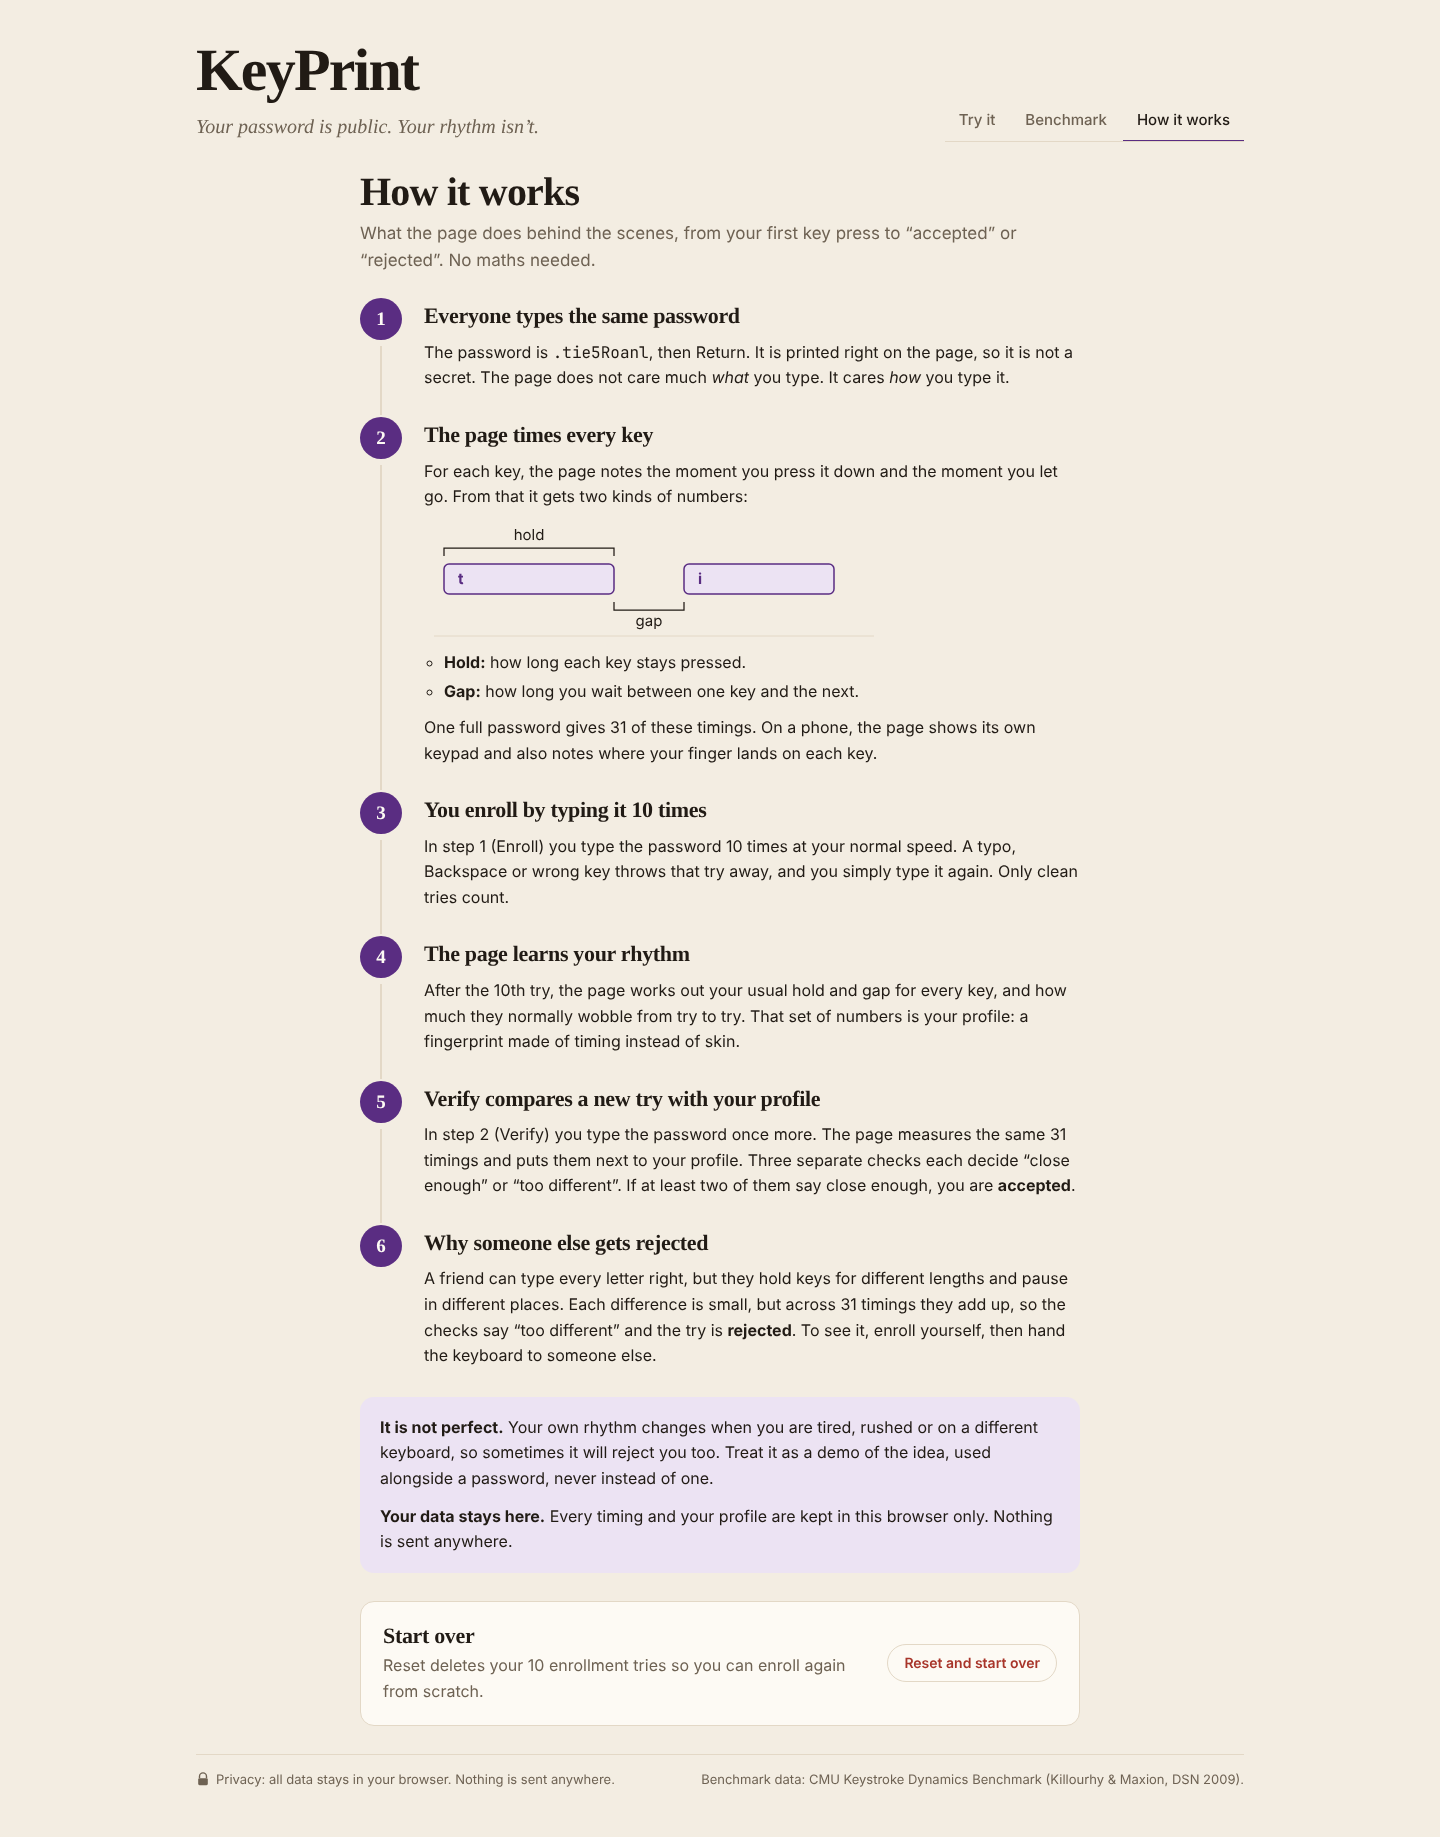
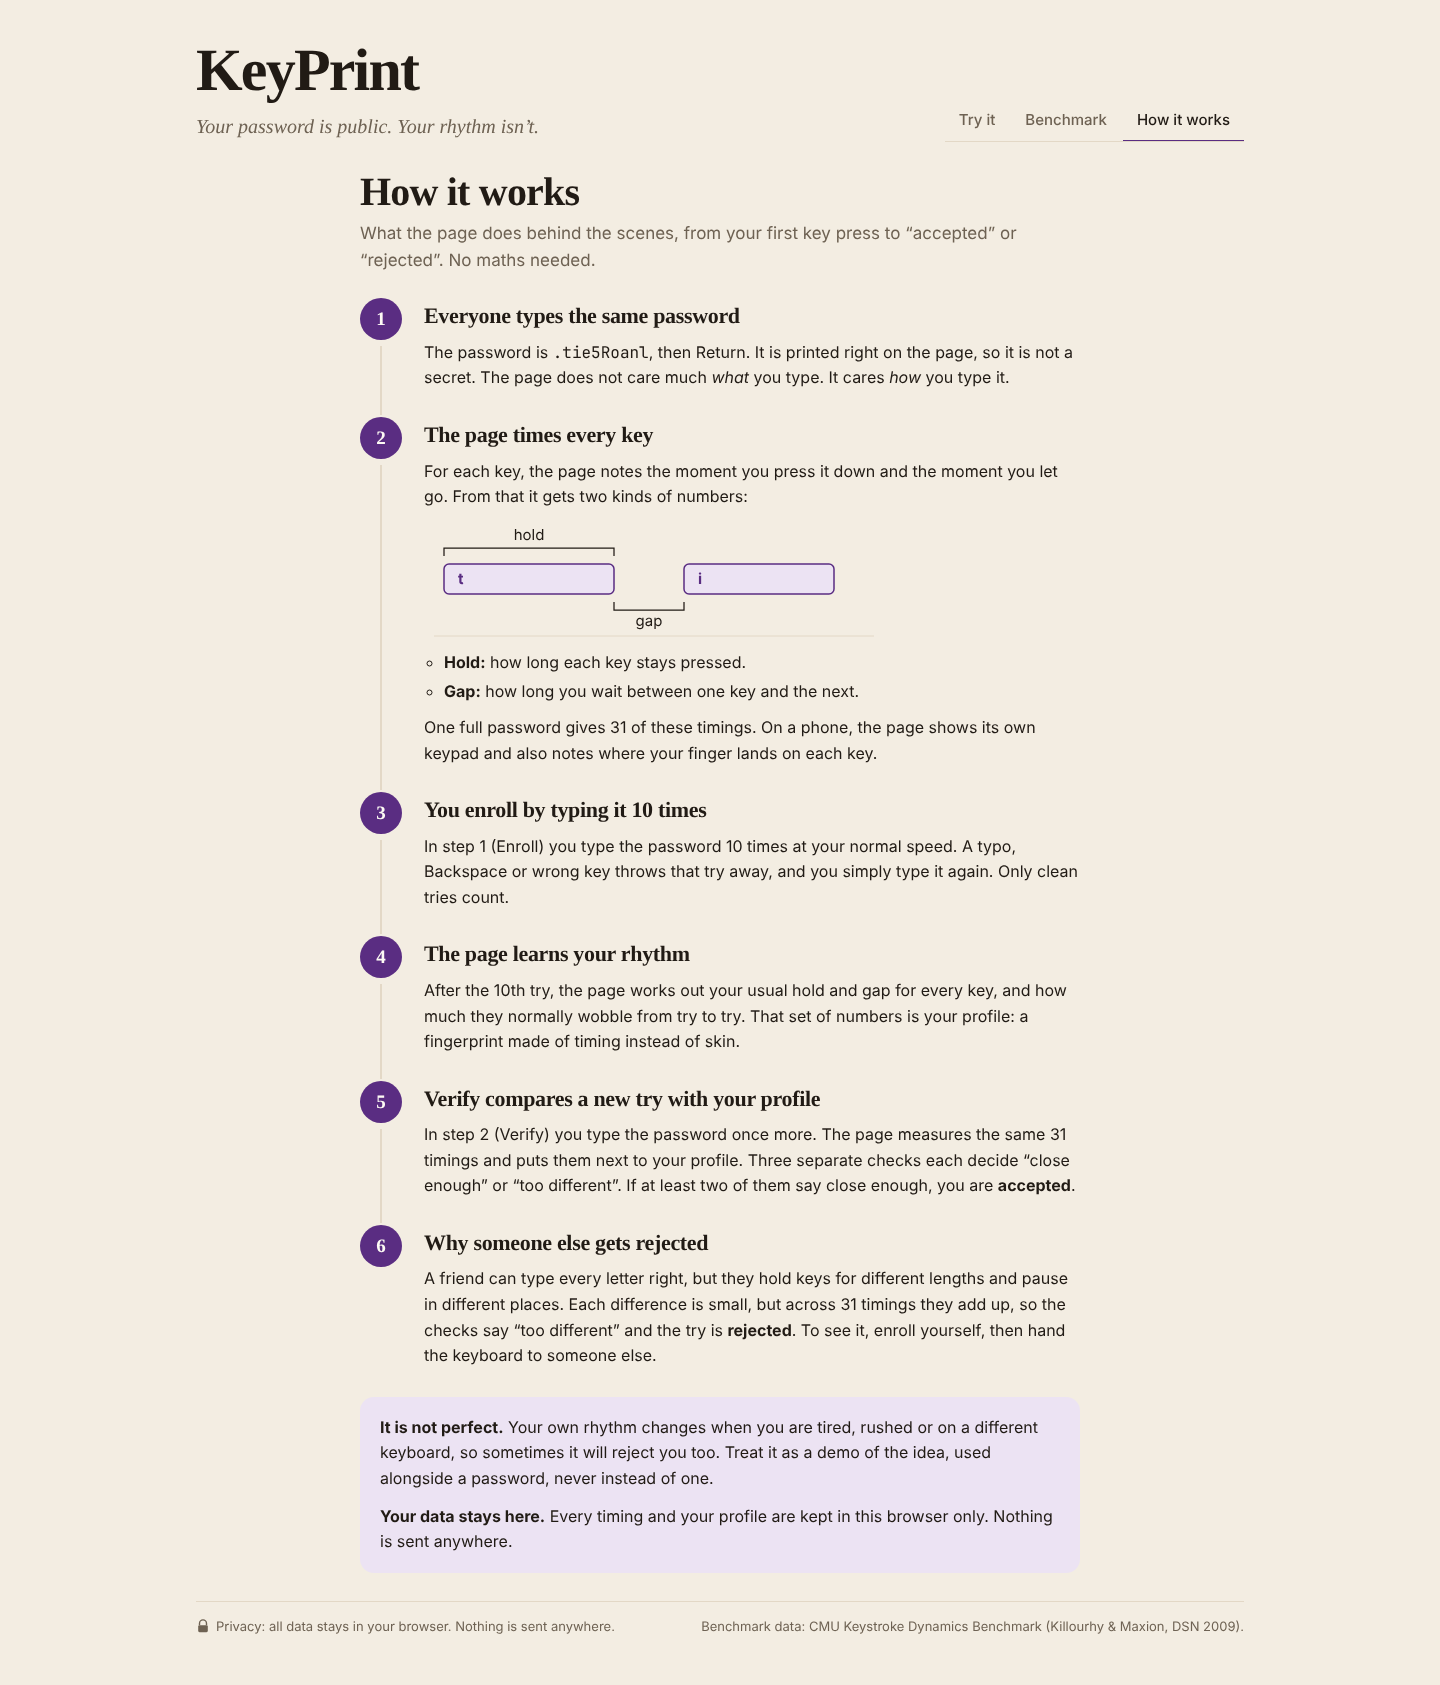
Show Reset only on Enroll, show passphrase at the bottom of Try it (#6)
Remove the Reset and start over block from How it works.

Claude-Session: https://claude.ai/code/session_01B27shjaKWdTVFwahj8JAJT

diff --git a/index.html b/index.html
@@ -203,8 +203,10 @@ h2{font-size:12px;letter-spacing:.14em}
 #pass::placeholder{font-family:var(--font-body);font-size:15px;letter-spacing:.01em;color:var(--muted)}
 .try .status{font-family:var(--font-display);font-size:19px;line-height:1.45;text-align:center;color:var(--ink);min-height:2.9em;text-wrap:balance}
 .try .status.ok{color:var(--ok)} .try .status.bad{color:var(--bad)}
-/* Try it: reset sits under the message */
+/* Try it: reset (Enroll only) sits under the message, the passphrase at the very bottom */
 .stage-foot{display:flex;justify-content:center}
+.phrase{margin:0;padding-top:16px;border-top:1px solid var(--line);text-align:center;color:var(--muted)}
+.phrase .mono{color:var(--ink);font-size:20px;letter-spacing:.04em;margin-left:6px}
 /* How it works: one plain walkthrough, numbered steps down a line */
 .how{max-width:720px;width:100%;margin:0 auto;display:grid;gap:28px}
 .how h3{margin:0;font-family:var(--font-display);font-size:22px;font-weight:600;letter-spacing:-.015em;line-height:1.25;text-wrap:balance;font-variation-settings:"opsz" 72}
@@ -220,9 +222,6 @@ h2{font-size:12px;letter-spacing:.14em}
 .walk>li:last-child::after{display:none}
 .walk ul{margin:0;padding-left:20px;display:grid;gap:4px}
 .how-notes{display:grid;gap:12px;padding:18px 20px;border-radius:14px;background:var(--accent-soft)}
-.how-reset{display:flex;flex-wrap:wrap;gap:14px 20px;align-items:center;justify-content:space-between;padding:20px 22px;border:1px solid var(--line);border-radius:14px;background:var(--surface)}
-.how-reset>div{display:grid;gap:4px;flex:1 1 260px}
-.how-reset p{color:var(--muted)}
 @media (max-width:520px){.walk>li{padding-left:52px}.walk>li::before{width:36px;height:36px;font-size:17px}.walk>li::after{left:17px;top:38px}}
 @media (max-width:640px){.panel{padding:16px}.try .steps{grid-template-columns:repeat(2,minmax(0,1fr))}.try .steps button small{display:block}#pass{font-size:20px}}
 </style>
@@ -254,10 +253,11 @@ h2{font-size:12px;letter-spacing:.14em}
     </ol>
     <div class="keys" id="keys" aria-hidden="true" hidden></div>
     <label for="pass" class="sr-only">Passphrase (type .tie5Roanl then Return)</label>
-    <input id="pass" type="password" autocomplete="off" autocapitalize="off" spellcheck="false" aria-describedby="status" placeholder="type .tie5Roanl, then Return">
+    <input id="pass" type="password" autocomplete="off" autocapitalize="off" spellcheck="false" aria-describedby="status" placeholder="type the passphrase below, then Return">
     <div class="keypad" id="keypad" role="group" aria-label="On-screen keypad for .tie5Roanl and Return" hidden></div>
     <div class="status" id="status" aria-live="polite">Start with “.”. Backspace or a wrong key discards the attempt; Esc restarts.</div>
-    <div class="stage-foot"><button class="btn danger" id="reset">Reset</button></div>
+    <div class="stage-foot" id="reset-row"><button class="btn danger" id="reset">Reset</button></div>
+    <p class="phrase" id="phrase">Passphrase<span class="mono">.tie5Roanl</span></p>
   </section>
   </div><!-- /view-try -->
 
@@ -380,14 +380,6 @@ h2{font-size:12px;letter-spacing:.14em}
     <div class="how-notes">
       <p><strong>It is not perfect.</strong> Your own rhythm changes when you are tired, rushed or on a different keyboard, so sometimes it will reject you too. Treat it as a demo of the idea, used alongside a password, never instead of one.</p>
       <p><strong>Your data stays here.</strong> Every timing and your profile are kept in this browser only. Nothing is sent anywhere.</p>
-    </div>
-
-    <div class="how-reset">
-      <div>
-        <h3>Start over</h3>
-        <p>Reset deletes your 10 enrollment tries so you can enroll again from scratch.</p>
-      </div>
-      <button class="btn danger" id="how-reset">Reset and start over</button>
     </div>
   </div>
 
@@ -1011,7 +1003,7 @@ if (typeof module !== 'undefined') module.exports = KPT;
     if (state.samples.length === N_ENROLL) { train(); setStep('verify'); } else { state.trained = null; setStep('enroll'); }
   }
 
-  // ---------- reset (Try it and How it works): tap once to arm, again to confirm ----------
+  // ---------- reset (Try it, Enroll step only): tap once to arm, again to confirm ----------
   function clearProfile() {
     state.samples = []; state.trained = null; state.frr = 0.05; state.lastX = null;
     setStep('enroll'); save(); render();
@@ -1029,7 +1021,6 @@ if (typeof module !== 'undefined') module.exports = KPT;
     });
   }
   resetButton($('reset'), function () { tryCap.focus(); });
-  resetButton($('how-reset'), function () { $('tab-try').click(); window.scrollTo(0, 0); tryCap.focus(); });
 
   // ---------- guided steps: 1 Enroll → 2 Verify ----------
   var HEADINGS = {
@@ -1043,6 +1034,7 @@ if (typeof module !== 'undefined') module.exports = KPT;
       if (k !== 'enroll') b.disabled = !state.trained;
     });
     $('cap-h').textContent = HEADINGS[state.step];
+    $('reset-row').hidden = state.step !== 'enroll';
   }
   function setStep(s, focus) {
     if (s !== 'enroll' && !state.trained) s = 'enroll';

diff --git a/test_e2e.js b/test_e2e.js
@@ -1,7 +1,7 @@
 // node test_e2e.js — browser tests with Playwright + Chromium (not part of `npm test`; needs `npm i -D playwright`).
 // Phone (375×667, touch, DPR 2): real touch input via CDP, keypad attempt -> 31 + 22 features, multi-touch, wrong key,
 // enroll + verify, canvas DPR + resize, touch targets, no horizontal overflow.
-// Desktop (1440×900): keyboard attempt -> 31 features, Reset on Try it and How it works, plain How it works walkthrough.
+// Desktop (1440×900): keyboard attempt -> 31 features, Reset on the Enroll step only, passphrase at the bottom, plain How it works walkthrough.
 // Writes docs/screenshots/*.png.
 'use strict';
 const path = require('path');
@@ -166,16 +166,21 @@ async function targets(page, scope) {
   }
   const xd = await page.evaluate(() => KeyPrint.lastVector());
   check('keyboard attempt -> 31 features', xd && xd.length === 31, xd && xd.length);
-  check('Try tab shows only steps, input, message and Reset', await page.evaluate(() => [...document.querySelectorAll('#view-try .stage > *')].filter((el) => el.getBoundingClientRect().height && !el.classList.contains('sr-only')).map((el) => el.id || el.className).join(',') === 'steps,pass,status,stage-foot'));
+  const tryParts = () => page.evaluate(() => [...document.querySelectorAll('#view-try .stage > *')].filter((el) => el.getBoundingClientRect().height && !el.classList.contains('sr-only')).map((el) => el.id || el.className).join(','));
+  check('Enroll shows steps, input, message, Reset, then the passphrase last', (await tryParts()) === 'steps,pass,status,reset-row,phrase');
+  check('passphrase shown at the bottom', (await page.textContent('#phrase')).includes('.tie5Roanl'));
   check('no third step', !(await page.$('#step-friend')));
   // a saved synthetic profile loads as trained
   await page.evaluate(() => localStorage.setItem('keyprint.profile.v2', JSON.stringify({ app: 'KeyPrint', device: 'desktop', samples: KP.syntheticProfileSamples(7, 10), frr: 0.05 })));
   await page.reload(); await sleep(150);
   check('desktop profile trained (synthetic example)', await page.evaluate(() => KeyPrint.trained() && KeyPrint.device() === 'desktop'));
   check('Verify step open once trained', await page.evaluate(() => !document.getElementById('step-verify').disabled));
+  check('Verify hides Reset, passphrase still last', (await tryParts()) === 'steps,pass,status,phrase' && !(await page.isVisible('#reset')));
   await page.screenshot({ path: path.join(SHOTS, 'desktop-1440.png') });
 
-  // Reset on Try it: first click arms, second clears
+  // Reset lives on the Enroll step: first click arms, second clears
+  await page.click('#step-enroll'); await sleep(60);
+  check('Enroll shows Reset', await page.isVisible('#reset'));
   await page.click('#reset');
   check('Reset asks for a second tap', /again/.test(await page.textContent('#reset')) && (await page.evaluate(() => KeyPrint.samples())) === 10);
   await page.click('#reset');
@@ -184,16 +189,15 @@ async function targets(page, scope) {
     JSON.parse(localStorage.getItem('keyprint.profile.v2')).samples.length === 0));
   check('Reset button label restored', (await page.textContent('#reset')).trim() === 'Reset');
 
-  // How it works: plain walkthrough only, plus its own Reset
+  // How it works: plain walkthrough only, no Reset
   await page.click('#tab-how'); await sleep(120);
   check('How it works is a 6-step walkthrough', (await page.$$('#view-how .walk > li')).length === 6);
   check('old session panels are gone', await page.evaluate(() => ['timeline', 'rhythm', 'overall', 'verdicts', 'devs', 'tally', 'force-keypad', 'thr-table', 'test-out', 'export'].every((id) => !document.getElementById(id))));
   await page.screenshot({ path: path.join(SHOTS, 'desktop-1440-how.png'), fullPage: true });
   await page.evaluate(() => localStorage.setItem('keyprint.profile.v2', JSON.stringify({ app: 'KeyPrint', device: 'desktop', samples: KP.syntheticProfileSamples(8, 10), frr: 0.05 })));
   await page.reload(); await sleep(150);
-  check('reload remembers the How it works tab', await page.isVisible('#how-reset'));
-  await page.click('#how-reset'); await page.click('#how-reset'); await sleep(120);
-  check('How it works Reset clears the profile and opens Try it', await page.evaluate(() => KeyPrint.samples() === 0 && !document.getElementById('view-try').hidden));
+  check('reload remembers the How it works tab', await page.isVisible('#view-how .walk'));
+  check('How it works has no Reset', await page.evaluate(() => !document.querySelector('#view-how button.danger') && !document.getElementById('how-reset')));
   check('no JS errors (desktop)', errors.length === 0, errors.join(' | '));
   await ctx.close();
   await browser.close();

diff --git a/README.md b/README.md
@@ -27,9 +27,9 @@ Passwords check what you typed. KeyPrint checks how long you held each key, how 
 - **Enroll:** type the passphrase `.tie5Roanl` ten times so KeyPrint learns your rhythm.
 - **Verify:** type it once more and three detectors vote on whether it is really you. Hand the keyboard to a friend and watch it turn them down.
 - **Phone mode:** on a phone, an on-screen keypad records where your thumb lands, not just when.
-- **Reset:** a Reset button on Try it (and on How it works) clears your profile so you can enroll again from scratch.
+- **Reset:** a Reset button on the Enroll step of Try it clears your profile so you can enroll again from scratch. It is hidden during Verify.
 - **Benchmark:** the Benchmark tab runs on the CMU keystroke dataset and draws an ROC curve, an enrollment curve, and per-subject EER numbers.
-- **Keep it simple:** the Try it tab is just two steps, the password box, the verdict and Reset. How it works is a plain six-step walkthrough of what happens behind the scenes, written for someone with no background.
+- **Keep it simple:** the Try it tab is just two steps, the password box, the verdict, Reset (Enroll only) and the passphrase to type at the bottom. How it works is a plain six-step walkthrough of what happens behind the scenes, written for someone with no background.
 
 ---
 
